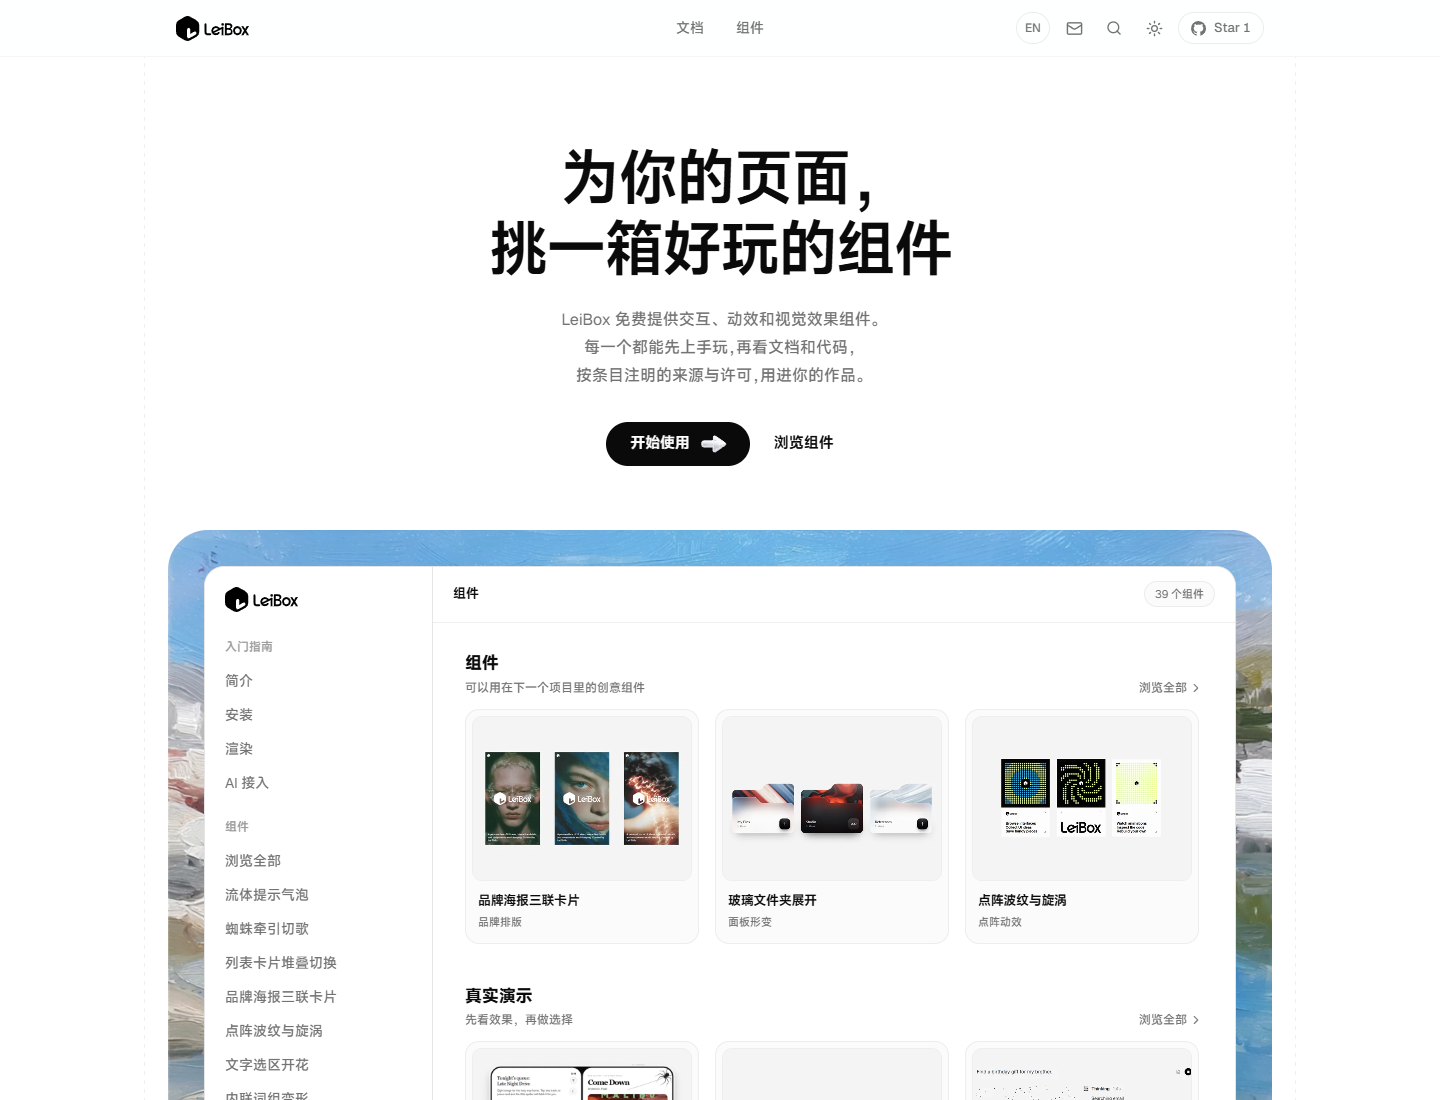
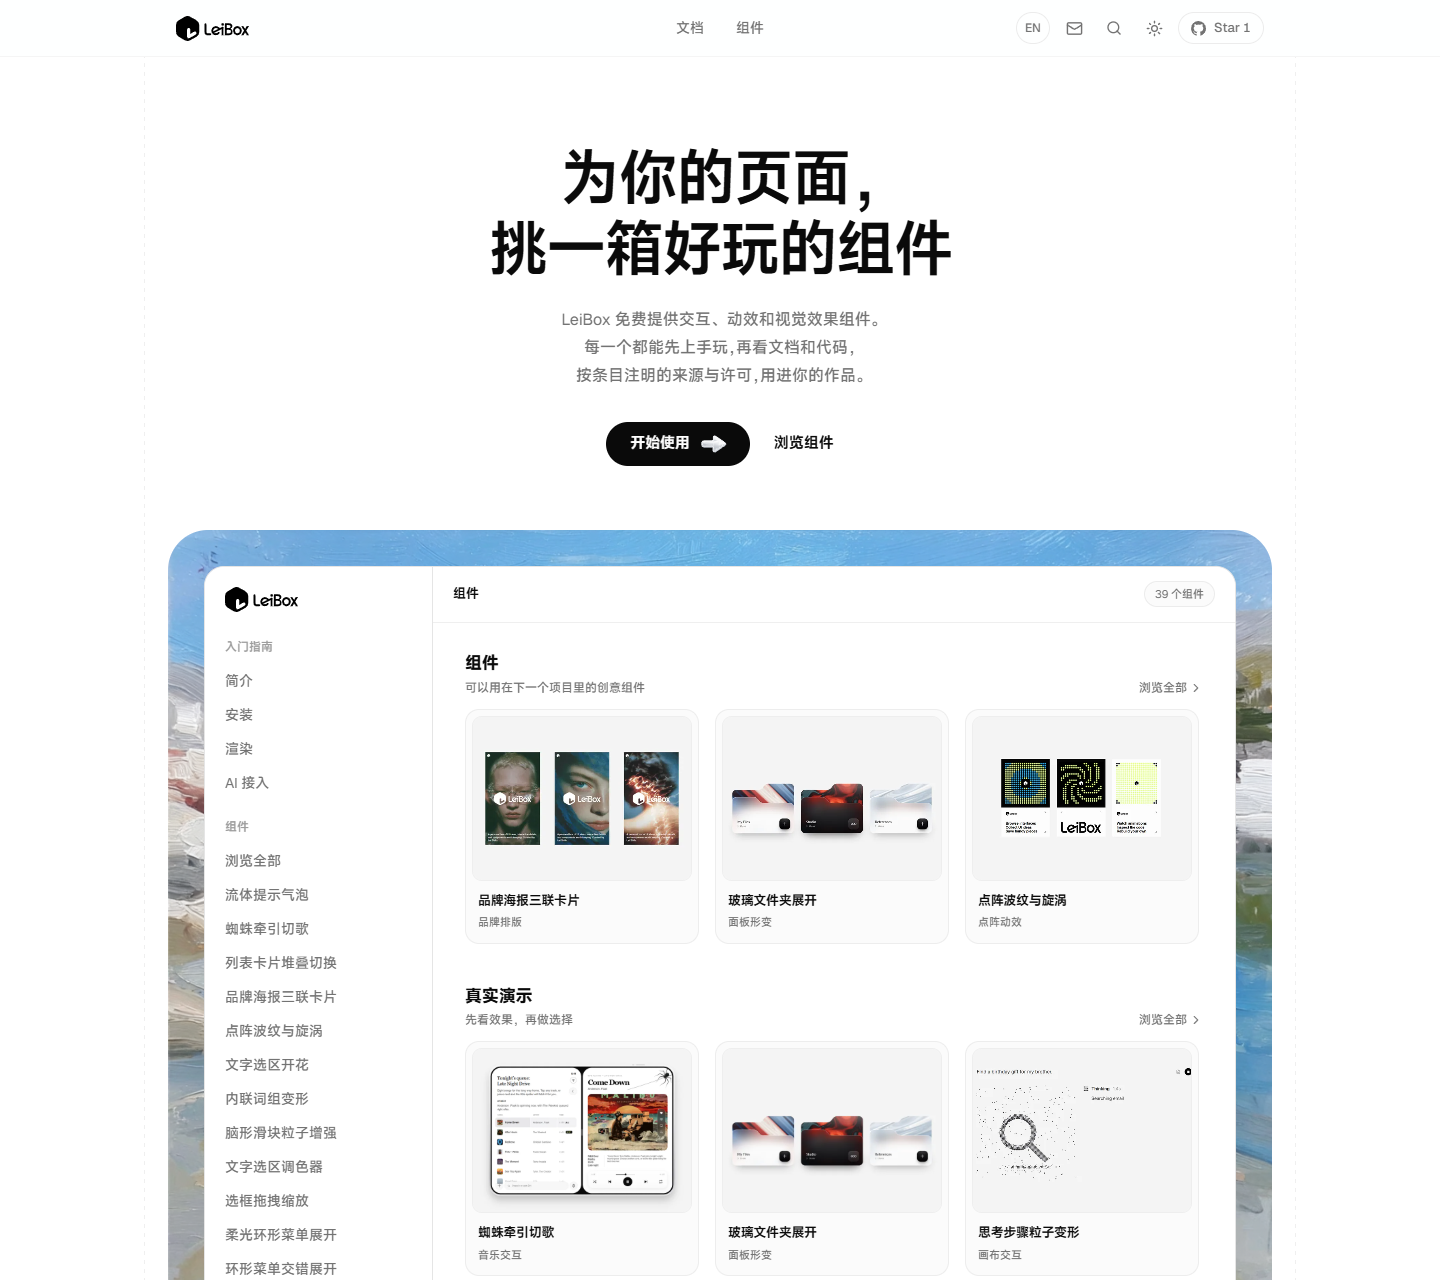
docs: refresh actual website screenshots [skip netlify]
Capture current local pages and the opened folder state, add the glass model with the selected painting, and record screenshot provenance. Skip Netlify deployment for this push.

diff --git a/docs/screenshots/README.md b/docs/screenshots/README.md
@@ -2,12 +2,17 @@
 
 采集日期：2026-10-28（Asia/Shanghai）。
 
-来自当前工作树构建后运行的本地网站 http://127.0.0.1:3000，不是线上部署状态的证明。视口为 1440 × 1100，中文、浅色主题，启用系统减少动态效果。
+来自当前工作树构建后运行的本地网站 http://127.0.0.1:3000，包含尚未提交的本地修改，不代表线上部署已同步。中文、浅色主题，启用系统减少动态效果。
 
-- `leibox-home.png`：`/`
-- `leibox-components.png`：`/components`
-- `leibox-glass-folder.png`：`/docs/animations/glass-folder`
+| 截图 | 页面 | 实际状态 | 视口 |
+| --- | --- | --- | --- |
+| [首页](leibox-home.png) | / | 首页首屏与组件预览 | 1440 × 1280 |
+| [组件浏览](leibox-components.png) | /components | 当前 39 个组件的列表 | 1440 × 1100 |
+| [玻璃文件夹交互](leibox-glass-folder.png) | /docs/animations/glass-folder | 键盘打开 My Files 文件夹 | 1440 × 1100 |
+| [玻璃物体与自定义背景](leibox-glass-object.png) | /docs/components/glass-object | 模型加载完成，使用选定的雪山湖泊背景 | 1440 × 1100 |
 
-玻璃文件夹截图通过键盘激活实际的 Open My Files 按钮进入展开状态。所有图片均为浏览器直接截图，未生成、拼接或替换页面元素。截图 SHA-256 和基准提交见 [capture.json](capture.json)。
+玻璃文件夹截图通过键盘激活实际的 Open My Files 按钮，等待展开完成；玻璃物体截图等待真实模型加载完成。所有图片均为浏览器直接截图，未生成、拼接或替换页面元素，也没有注入截图专用样式。
+
+采集时间、构建编号、基准提交和各图 SHA-256 见 [capture.json](capture.json)。
 
 复现：先运行 npm run build 和 npm start，再运行 node scripts/capture-readme-screenshots.mjs。

diff --git a/COPYRIGHT.md b/COPYRIGHT.md
@@ -8,7 +8,7 @@
 
 按维护者最新要求，9 个原有效果已在本地恢复：字符物体、字符透镜、冰霜、玻璃透镜、玻璃物体、字符雨、粒子物体、滚动粒子和液态物体。效果保留 Canvas UI 原有实现，演示背景替换为维护者选定的雪山湖泊画面；详情页源码与许可入口指向原作者，不将这些实现作为本站独立原创代码包交给 AI 拉取。
 
-此次恢复保留在本地，未推送或部署。替换背景不改变代码来源和原许可要求；Three.js 及另行传入的图片、模型仍应遵守各自许可。
+仓库内容不代表线上部署版本。替换背景不改变代码来源和原许可要求；Three.js 及另行传入的图片、模型仍应遵守各自许可。
 
 历史网站基础代码仍有改编自 David Haz 的 Canvas UI 项目的部分，因此保留 [原始许可](LICENSE.md) 与其中的署名。删除组件不等于抹除基础代码或 Git 历史的来源，也不意味着当前仓库已完成独立实现审查。原项目及许可：https://github.com/DavidHDev/canvas-ui/blob/main/LICENSE.md 。
 
